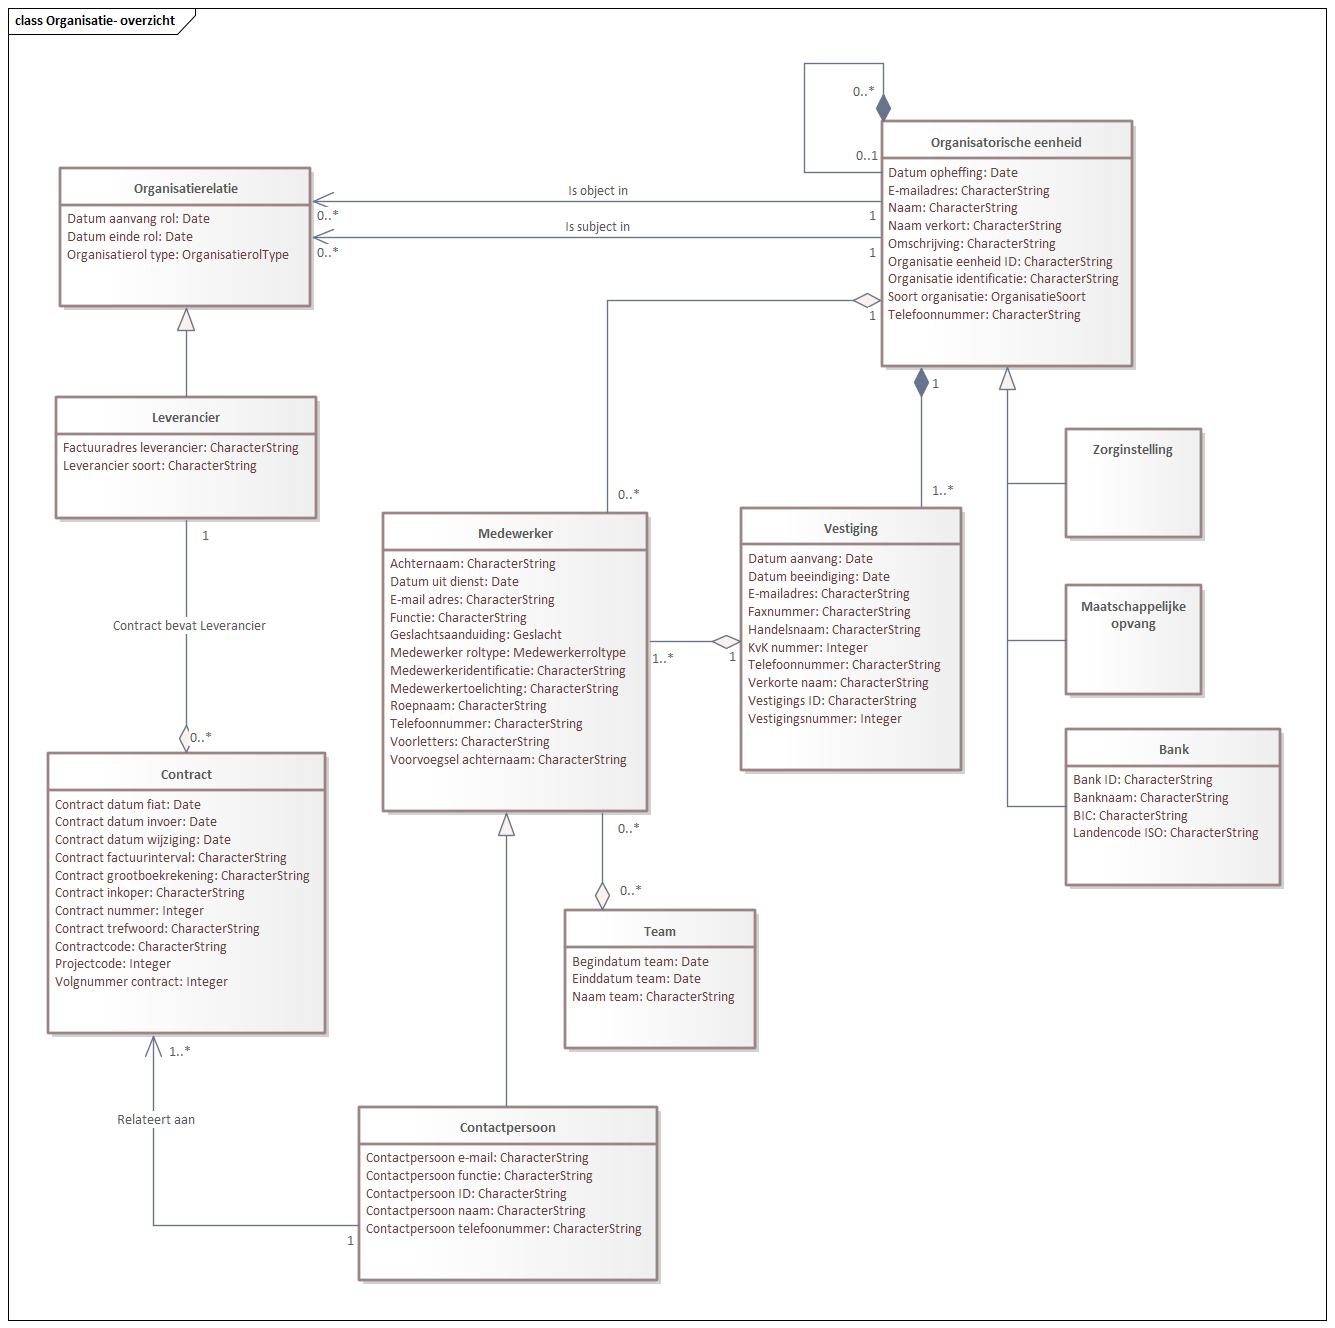
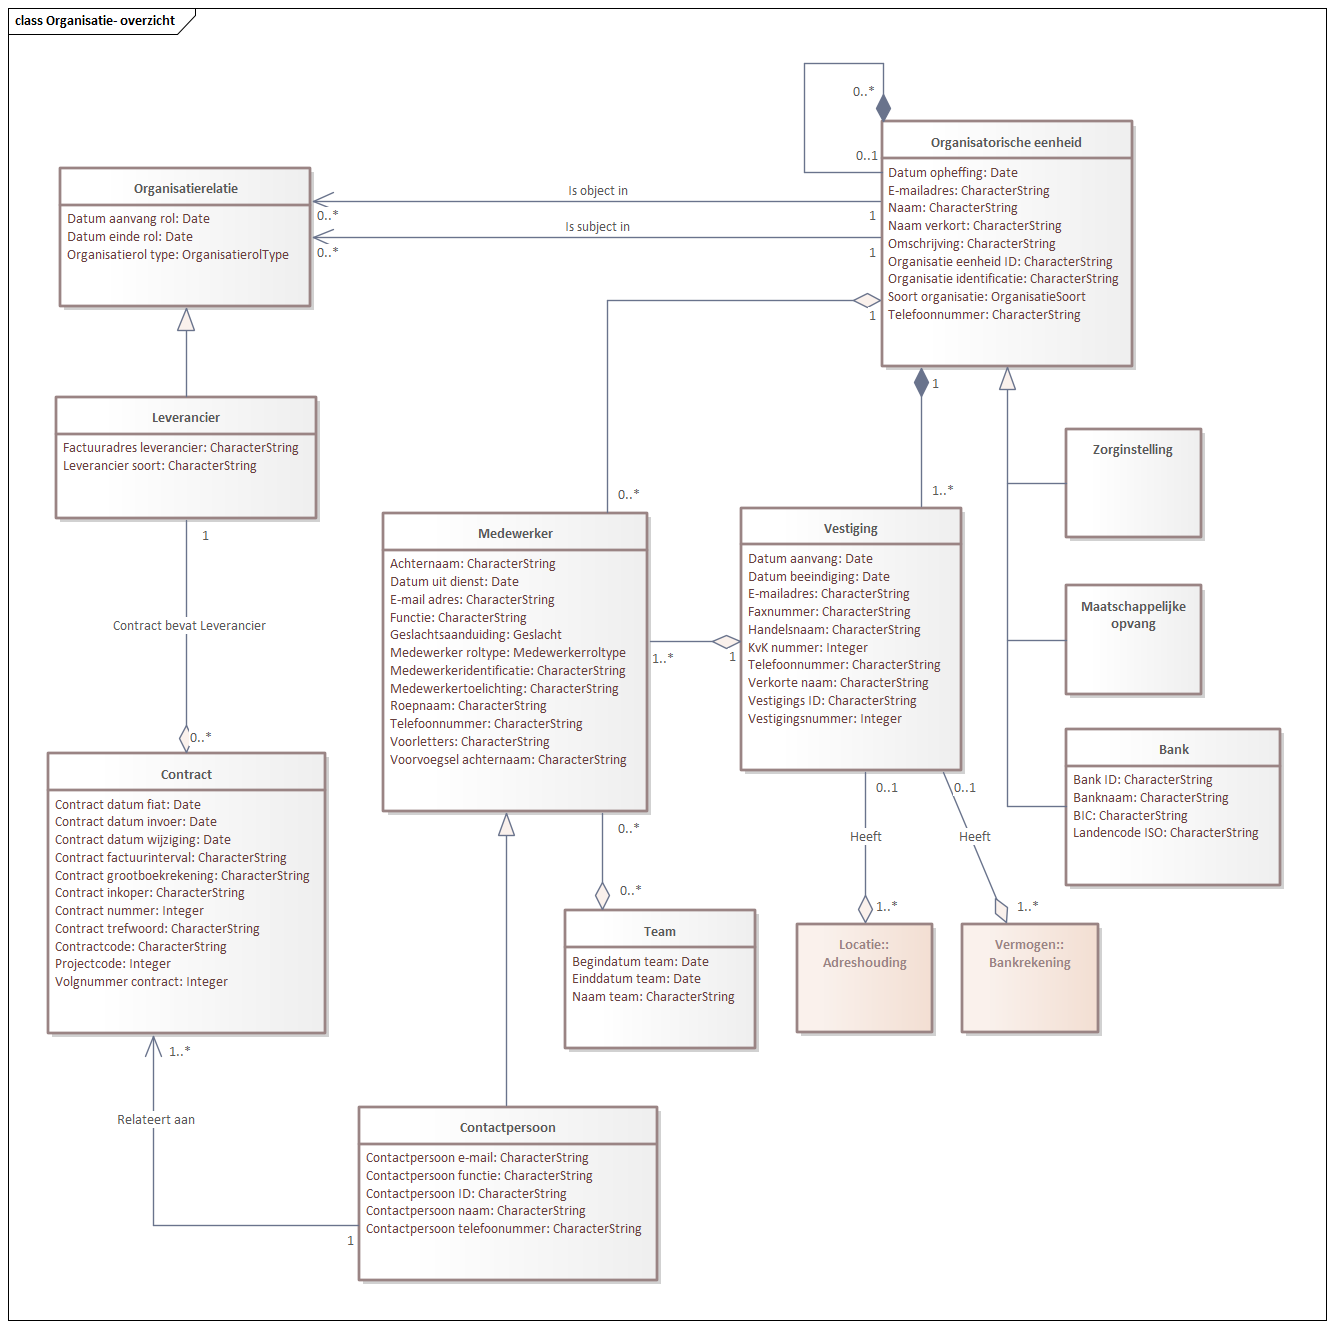
a

diff --git a/organisatie.html b/organisatie.html
@@ -1,6 +1,7 @@
          <h2>Gegevensdefinitie</h2>
-            <!--SIM-InkomenModellen-1.0-1-20230101-20250117-105718 imvertor 4.0.0--></p>
-         <div class="imageinfo overview"><img src="Images/EAID_9A9DE211_4CB3_4016_AFCF_07931CF4AD25.png" usemap="#imagemap-EAID_9A9DE211_4CB3_4016_AFCF_07931CF4AD25" alt="Diagram: Organisatie- overzicht"><map name="imagemap-EAID_9A9DE211_4CB3_4016_AFCF_07931CF4AD25"><area shape="rect" alt="Zorginstelling" coords="1066,429,1202,538" href="#global_class_Organisatie_Zorginstelling"><area shape="rect" alt="Vestiging" coords="741,508,962,771" href="#global_class_Organisatie_Vestiging"><area shape="rect" alt="Team" coords="565,910,756,1049" href="#global_class_Organisatie_Team"><area shape="rect" alt="Organisatorische eenheid" coords="882,121,1133,367" href="#global_class_Organisatie_Organisatorischeeenheid"><area shape="rect" alt="Organisatierelatie" coords="60,168,311,307" href="#global_class_Organisatie_Organisatierelatie"><area shape="rect" alt="Maatschappelijke opvang" coords="1066,585,1202,695" href="#global_class_Organisatie_Maatschappelijkeopvang"><area shape="rect" alt="Leverancier" coords="56,397,317,519" href="#global_class_Organisatie_Leverancier"><area shape="rect" alt="Contract" coords="48,753,326,1034" href="#global_class_Organisatie_Contract"><area shape="rect" alt="Contactpersoon" coords="359,1107,658,1281" href="#global_class_Organisatie_Contactpersoon"><area shape="rect" alt="Bank" coords="1066,729,1281,886" href="#global_class_Organisatie_Bank"><area shape="rect" alt="Medewerker" coords="383,513,648,812" href="#global_class_Organisatie_Medewerker"></map><p><b>Organisatie- overzicht</b>
+         <p><b>Deze tekst is normatief.</b>
+            <!--SIM-InkomenModellen-1.0-1-20230101-20250317-140850 imvertor 4.0.0--></p>
+         <div class="imageinfo overview"><img src="Images/EAID_9A9DE211_4CB3_4016_AFCF_07931CF4AD25.png" usemap="#imagemap-EAID_9A9DE211_4CB3_4016_AFCF_07931CF4AD25" alt="Diagram: Organisatie- overzicht"><map name="imagemap-EAID_9A9DE211_4CB3_4016_AFCF_07931CF4AD25"><area shape="rect" alt="Vermogen::Bankrekening" coords="962,924,1099,1033" href="#global_class_Organisatie_VermogenBankrekening"><area shape="rect" alt="Locatie::Adreshouding" coords="797,924,933,1033" href="#global_class_Organisatie_LocatieAdreshouding"><area shape="rect" alt="Zorginstelling" coords="1066,429,1202,538" href="#global_class_Organisatie_Zorginstelling"><area shape="rect" alt="Vestiging" coords="741,508,962,771" href="#global_class_Organisatie_Vestiging"><area shape="rect" alt="Team" coords="565,910,756,1049" href="#global_class_Organisatie_Team"><area shape="rect" alt="Organisatorische eenheid" coords="882,121,1133,367" href="#global_class_Organisatie_Organisatorischeeenheid"><area shape="rect" alt="Organisatierelatie" coords="60,168,311,307" href="#global_class_Organisatie_Organisatierelatie"><area shape="rect" alt="Maatschappelijke opvang" coords="1066,585,1202,695" href="#global_class_Organisatie_Maatschappelijkeopvang"><area shape="rect" alt="Leverancier" coords="56,397,317,519" href="#global_class_Organisatie_Leverancier"><area shape="rect" alt="Contract" coords="48,753,326,1034" href="#global_class_Organisatie_Contract"><area shape="rect" alt="Contactpersoon" coords="359,1107,658,1281" href="#global_class_Organisatie_Contactpersoon"><area shape="rect" alt="Bank" coords="1066,729,1281,886" href="#global_class_Organisatie_Bank"><area shape="rect" alt="Medewerker" coords="383,513,648,812" href="#global_class_Organisatie_Medewerker"></map><p><b>Organisatie- overzicht</b>
                
                <p></p>
                </p>
@@ -790,6 +791,34 @@
                            
                            
                            <a class="link" href="#global_class_Organisatie_Medewerker">Medewerker</a>
+                           
+                           [ 1 .. * ]
+                           </td>
+                        <td></td>
+                     </tr>
+                     <tr>
+                        <td>
+                           Vestiging
+                           [ 0 .. 1 ]
+                           
+                           <a class="link" href="#detail_association_Organisatie_Vestiging_Heeft">Heeft</a>
+                           
+                           
+                           <a class="link" href="#global_class_Organisatie_VermogenBankrekening">Vermogen::Bankrekening</a>
+                           
+                           [ 1 .. * ]
+                           </td>
+                        <td></td>
+                     </tr>
+                     <tr>
+                        <td>
+                           Vestiging
+                           [ 0 .. 1 ]
+                           
+                           <a class="link" href="#detail_association_Organisatie_Vestiging_Heeft">Heeft</a>
+                           
+                           
+                           <a class="link" href="#global_class_Organisatie_LocatieAdreshouding">Locatie::Adreshouding</a>
                            
                            [ 1 .. * ]
                            </td>
@@ -1690,6 +1719,142 @@
                            uitvoert binnen een VESTIGING VAN ZAAKBEHANDELENDE ORGANISATIE en die verantwoordelijk
                            is voor de behandeling van zaken.De ORGANISATORISCHE EENHEID kan samenvallen met het
                            begrip NIET-NATUURLIJK PERSOON uit de RSGB.Bron: RGBZ2.0</td>
+                     </tr>
+                  </tbody>
+               </table>
+               
+               
+               </section>
+            
+            <section id="global_class_Organisatie_VermogenBankrekening">
+               <h4>   Vermogen::Bankrekening</h4>
+               
+               <table style="width: 100%;">
+                  <colgroup style="width: 30%;"></colgroup>
+                  <colgroup style="width: 70%;"></colgroup>
+                  <tbody>
+                     <tr>
+                        <th>Naam</th>
+                        <td>Vermogen::Bankrekening</td>
+                     </tr>
+                     <tr>
+                        <th>Herkomst</th>
+                        <td> </td>
+                     </tr>
+                     <tr>
+                        <th>Definitie</th>
+                        <td> </td>
+                     </tr>
+                     <tr>
+                        <th>Herkomst definitie</th>
+                        <td> </td>
+                     </tr>
+                     <tr>
+                        <th>Datum opname</th>
+                        <td> </td>
+                     </tr>
+                     <tr>
+                        <th>Unieke aanduiding</th>
+                        <td> </td>
+                     </tr>
+                     <tr>
+                        <th>Indicatie abstract object</th>
+                        <td>Nee</td>
+                     </tr>
+                  </tbody>
+               </table>
+               
+               <h5>Overzicht relaties  </h5>
+               
+               <table style="width: 100%;">
+                  <colgroup style="width: 50%;"></colgroup>
+                  <colgroup style="width: 50%;"></colgroup>
+                  <tbody>
+                     <tr>
+                        <th>Relatienaam met kardinaliteiten</th>
+                        <th>Definitie</th>
+                     </tr>
+                     <tr>
+                        <td>
+                           
+                           <a class="link" href="#global_class_Organisatie_Vestiging">Vestiging</a>
+                           
+                           [ 0 .. 1 ]
+                           
+                           <a class="link" href="#detail_association_Organisatie_Vestiging_Heeft">Heeft</a>
+                           
+                           Vermogen::Bankrekening
+                           [ 1 .. * ]
+                           </td>
+                        <td></td>
+                     </tr>
+                  </tbody>
+               </table>
+               
+               
+               </section>
+            
+            <section id="global_class_Organisatie_LocatieAdreshouding">
+               <h4>   Locatie::Adreshouding</h4>
+               
+               <table style="width: 100%;">
+                  <colgroup style="width: 30%;"></colgroup>
+                  <colgroup style="width: 70%;"></colgroup>
+                  <tbody>
+                     <tr>
+                        <th>Naam</th>
+                        <td>Locatie::Adreshouding</td>
+                     </tr>
+                     <tr>
+                        <th>Herkomst</th>
+                        <td> </td>
+                     </tr>
+                     <tr>
+                        <th>Definitie</th>
+                        <td> </td>
+                     </tr>
+                     <tr>
+                        <th>Herkomst definitie</th>
+                        <td> </td>
+                     </tr>
+                     <tr>
+                        <th>Datum opname</th>
+                        <td> </td>
+                     </tr>
+                     <tr>
+                        <th>Unieke aanduiding</th>
+                        <td> </td>
+                     </tr>
+                     <tr>
+                        <th>Indicatie abstract object</th>
+                        <td>Nee</td>
+                     </tr>
+                  </tbody>
+               </table>
+               
+               <h5>Overzicht relaties  </h5>
+               
+               <table style="width: 100%;">
+                  <colgroup style="width: 50%;"></colgroup>
+                  <colgroup style="width: 50%;"></colgroup>
+                  <tbody>
+                     <tr>
+                        <th>Relatienaam met kardinaliteiten</th>
+                        <th>Definitie</th>
+                     </tr>
+                     <tr>
+                        <td>
+                           
+                           <a class="link" href="#global_class_Organisatie_Vestiging">Vestiging</a>
+                           
+                           [ 0 .. 1 ]
+                           
+                           <a class="link" href="#detail_association_Organisatie_Vestiging_Heeft">Heeft</a>
+                           
+                           Locatie::Adreshouding
+                           [ 1 .. * ]
+                           </td>
+                        <td></td>
                      </tr>
                   </tbody>
                </table>
@@ -3964,6 +4129,130 @@
                      </table>
                      
                      </section>
+                  
+                  <section id="detail_association_Organisatie_Vestiging_Heeft">
+                     <h6>Relatiesoort details  <a href="#global_class_Organisatie_Vestiging">Vestiging</a> Heeft</h6>
+                     
+                     <table style="width: 100%;">
+                        <colgroup style="width: 30%;"></colgroup>
+                        <colgroup style="width: 70%;"></colgroup>
+                        <tbody>
+                           <tr>
+                              <th>Naam</th>
+                              <td>Heeft</td>
+                           </tr>
+                           <tr>
+                              <th>Gerelateerd objecttype</th>
+                              <td>
+                                 <a class="link" href="#global_class_Organisatie_VermogenBankrekening">Vermogen::Bankrekening</a>
+                                 </td>
+                           </tr>
+                           <tr>
+                              <th>Herkomst</th>
+                              <td> </td>
+                           </tr>
+                           <tr>
+                              <th>Definitie</th>
+                              <td> </td>
+                           </tr>
+                           <tr>
+                              <th>Herkomst definitie</th>
+                              <td> </td>
+                           </tr>
+                           <tr>
+                              <th>Datum opname</th>
+                              <td> </td>
+                           </tr>
+                           <tr>
+                              <th>Mogelijk geen waarde</th>
+                              <td>Nee</td>
+                           </tr>
+                           <tr>
+                              <th>Indicatie in onderzoek</th>
+                              <td>Nee</td>
+                           </tr>
+                           <tr>
+                              <th>Aanduiding strijdigheid/nietigheid</th>
+                              <td> </td>
+                           </tr>
+                           <tr>
+                              <th>Indicatie kardinaliteit</th>
+                              <td>1 .. *</td>
+                           </tr>
+                           <tr>
+                              <th>Indicatie authentiek</th>
+                              <td>Authentiek</td>
+                           </tr>
+                           <tr>
+                              <th>Regels</th>
+                              <td> </td>
+                           </tr>
+                        </tbody>
+                     </table>
+                     
+                     </section>
+                  
+                  <section id="detail_association_Organisatie_Vestiging_Heeft">
+                     <h6>Relatiesoort details  <a href="#global_class_Organisatie_Vestiging">Vestiging</a> Heeft</h6>
+                     
+                     <table style="width: 100%;">
+                        <colgroup style="width: 30%;"></colgroup>
+                        <colgroup style="width: 70%;"></colgroup>
+                        <tbody>
+                           <tr>
+                              <th>Naam</th>
+                              <td>Heeft</td>
+                           </tr>
+                           <tr>
+                              <th>Gerelateerd objecttype</th>
+                              <td>
+                                 <a class="link" href="#global_class_Organisatie_LocatieAdreshouding">Locatie::Adreshouding</a>
+                                 </td>
+                           </tr>
+                           <tr>
+                              <th>Herkomst</th>
+                              <td> </td>
+                           </tr>
+                           <tr>
+                              <th>Definitie</th>
+                              <td> </td>
+                           </tr>
+                           <tr>
+                              <th>Herkomst definitie</th>
+                              <td> </td>
+                           </tr>
+                           <tr>
+                              <th>Datum opname</th>
+                              <td> </td>
+                           </tr>
+                           <tr>
+                              <th>Mogelijk geen waarde</th>
+                              <td>Nee</td>
+                           </tr>
+                           <tr>
+                              <th>Indicatie in onderzoek</th>
+                              <td>Nee</td>
+                           </tr>
+                           <tr>
+                              <th>Aanduiding strijdigheid/nietigheid</th>
+                              <td> </td>
+                           </tr>
+                           <tr>
+                              <th>Indicatie kardinaliteit</th>
+                              <td>1 .. *</td>
+                           </tr>
+                           <tr>
+                              <th>Indicatie authentiek</th>
+                              <td>Authentiek</td>
+                           </tr>
+                           <tr>
+                              <th>Regels</th>
+                              <td> </td>
+                           </tr>
+                        </tbody>
+                     </table>
+                     
+                     </section>
                   </section>
                
                
@@ -6174,6 +6463,8 @@
                      
                      </section>
                   </section>
+               
+               
                
                </section>
             
